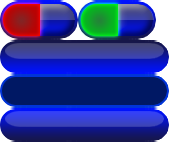
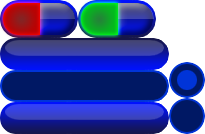
Player now chooses ship s/he wishes to use.

diff --git a/core/src/io/github/deathsbreedgames/spacerun/screens/ShipSelectScreen.java b/core/src/io/github/deathsbreedgames/spacerun/screens/ShipSelectScreen.java
@@ -5,8 +5,11 @@ import com.badlogic.gdx.graphics.OrthographicCamera;
 import com.badlogic.gdx.graphics.g2d.BitmapFont;
 import com.badlogic.gdx.graphics.g2d.SpriteBatch;
 import com.badlogic.gdx.graphics.g2d.TextureAtlas;
+import com.badlogic.gdx.graphics.g2d.TextureRegion;
 import com.badlogic.gdx.scenes.scene2d.Actor;
 import com.badlogic.gdx.scenes.scene2d.Stage;
+import com.badlogic.gdx.scenes.scene2d.ui.ImageButton;
+import com.badlogic.gdx.scenes.scene2d.ui.ImageButton.ImageButtonStyle;
 import com.badlogic.gdx.scenes.scene2d.ui.Skin;
 import com.badlogic.gdx.scenes.scene2d.ui.TextButton;
 import com.badlogic.gdx.scenes.scene2d.ui.TextButton.TextButtonStyle;
@@ -26,14 +29,18 @@ import io.github.deathsbreedgames.spacerun.GlobalVars;
  * 
  */
 public class ShipSelectScreen extends BaseScreen {
+	// Image variables
 	private OrthographicCamera camera;
 	private SpriteBatch batch;
+	private TextureAtlas shipAtlas;
+	private BitmapFont statFont;
 	
 	// Button variables
 	private Stage mainStage;
 	private TextureAtlas buttonAtlas;
 	private Skin buttonSkin;
 	private BitmapFont buttonFont;
+	private ImageButton chooseShip[];
 	
 	// Constructor:
 	public ShipSelectScreen() {
@@ -43,6 +50,9 @@ public class ShipSelectScreen extends BaseScreen {
 		camera.position.set(GlobalVars.width / 2, GlobalVars.height / 2, 0f);
 		camera.update();
 		batch = new SpriteBatch();
+		shipAtlas = new TextureAtlas("gfx/sprites/spaceships.pack");
+		statFont = new BitmapFont();
+		statFont.scale(0.05f);
 		
 		// Setup the button variables
 		mainStage = new Stage(new StretchViewport(GlobalVars.width, GlobalVars.height));
@@ -53,6 +63,10 @@ public class ShipSelectScreen extends BaseScreen {
 		buttonFont = new BitmapFont();
 		buttonFont.scale(0.3f);
 		
+		ImageButtonStyle imageButtonStyle = new ImageButtonStyle();
+		imageButtonStyle.imageUp = buttonSkin.getDrawable("UncheckedButton");
+		imageButtonStyle.imageChecked = buttonSkin.getDrawable("CheckedButton");
+		
 		TextButtonStyle buttonStyle = new TextButtonStyle();
 		buttonStyle.up = buttonSkin.getDrawable("MainMenu-normal");
 		buttonStyle.down = buttonSkin.getDrawable("MainMenu-down");
@@ -60,6 +74,35 @@ public class ShipSelectScreen extends BaseScreen {
 		buttonStyle.font = buttonFont;
 		
 		// Create the buttons
+		chooseShip = new ImageButton[3];
+		
+		chooseShip[0] = new ImageButton(imageButtonStyle);
+		chooseShip[0].setCenterPosition((float)GlobalVars.width * 0.25f, 200f);
+		chooseShip[0].addListener(new ChangeListener() {
+			public void changed(ChangeEvent e, Actor a) {
+				GlobalVars.ship = 0;
+			}
+		});
+		
+		chooseShip[1] = new ImageButton(imageButtonStyle);
+		chooseShip[1].setCenterPosition((float)GlobalVars.width * 0.5f, 200f);
+		chooseShip[1].addListener(new ChangeListener() {
+			public void changed(ChangeEvent e, Actor a) {
+				GlobalVars.ship = 1;
+			}
+		});
+		
+		chooseShip[2] = new ImageButton(imageButtonStyle);
+		chooseShip[2].setCenterPosition((float)GlobalVars.width * 0.75f, 200f);
+		chooseShip[2].addListener(new ChangeListener() {
+			public void changed(ChangeEvent e, Actor a) {
+				GlobalVars.ship = 2;
+			}
+		});
+		
+		for(int i = 0; i < chooseShip.length; i++) mainStage.addActor(chooseShip[i]);
+		chooseShip[0].setChecked(true);
+		
 		TextButton playButton = new TextButton("PLAY", buttonStyle);
 		playButton.setPosition(GlobalVars.width / 2 - playButton.getWidth() / 2, 60f);
 		mainStage.addActor(playButton);
@@ -88,11 +131,25 @@ public class ShipSelectScreen extends BaseScreen {
 	public void render(float delta) {
 		super.render(delta);
 		
+		TextureRegion destroyer = (TextureRegion)shipAtlas.findRegion("bluedestroyer");
+		TextureRegion carrier = (TextureRegion)shipAtlas.findRegion("bluecarrier");
+		TextureRegion cruiser = (TextureRegion)shipAtlas.findRegion("bluecruiser");
+		
 		camera.update();
 		batch.setProjectionMatrix(camera.combined);
 		batch.begin();
-		// Draw here
+		batch.draw(destroyer, GlobalVars.width * 0.25f - 22.5f, 225f);
+		statFont.drawMultiLine(batch, "ATK 2\nDEF 1\nSPD 1", GlobalVars.width * 0.25f - 22.5f, 375f);
+		batch.draw(carrier, GlobalVars.width * 0.5f - 22.5f, 225f);
+		statFont.drawMultiLine(batch, "ATK 1\nDEF 2\nSPD 1", GlobalVars.width * 0.5f - 22.5f, 375f);
+		batch.draw(cruiser, GlobalVars.width * 0.75f - 12f, 225f);
+		statFont.drawMultiLine(batch, "ATK 1\nDEF 1\nSPD 2", GlobalVars.width * 0.75f - 24f, 375f);
 		batch.end();
+		
+		for(int i = 0; i < chooseShip.length; i++) {
+			if(i != GlobalVars.ship) chooseShip[i].setChecked(false);
+			else chooseShip[i].setChecked(true);
+		}
 		
 		mainStage.act();
 		mainStage.draw();
@@ -102,6 +159,7 @@ public class ShipSelectScreen extends BaseScreen {
 	@Override
 	public void dispose() {
 		batch.dispose();
+		shipAtlas.dispose();
 		
 		mainStage.dispose();
 		buttonAtlas.dispose();

diff --git a/core/src/io/github/deathsbreedgames/spacerun/screens/GameScreen.java b/core/src/io/github/deathsbreedgames/spacerun/screens/GameScreen.java
@@ -43,7 +43,13 @@ public class GameScreen extends BaseScreen {
 		spaceshipAtlas = new TextureAtlas("gfx/sprites/spaceships.pack");
 		bulletAtlas = new TextureAtlas("gfx/sprites/bullets.pack");
 		
-		player = new Player(spaceshipAtlas.findRegion("bluedestroyer"), 160, 50);
+		if(GlobalVars.ship == 0) {
+			player = new Player(spaceshipAtlas.findRegion("bluedestroyer"), 160, 50);
+		} else if(GlobalVars.ship == 1) {
+			player = new Player(spaceshipAtlas.findRegion("bluecarrier"), 160, 50);
+		} else {
+			player = new Player(spaceshipAtlas.findRegion("bluecruiser"), 160, 50);
+		}
 		bullets = new Entity[NUM_BULLETS];
 		for(int i = 0; i < NUM_BULLETS; i++) { bullets[i] = null; }
 		

diff --git a/core/src/io/github/deathsbreedgames/spacerun/GlobalVars.java b/core/src/io/github/deathsbreedgames/spacerun/GlobalVars.java
@@ -18,6 +18,8 @@ public class GlobalVars {
 	public static final int width = 320;
 	public static final int height = 480;
 	
+	public static int ship = 0;
+	
 	public static float getTouchX() {
 		float tX = (float)GlobalVars.width / (float)Gdx.graphics.getWidth() * (float)Gdx.input.getX();
 		return tX;
